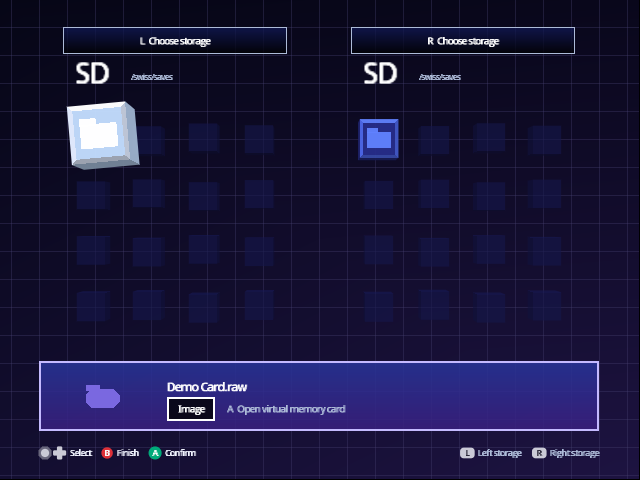
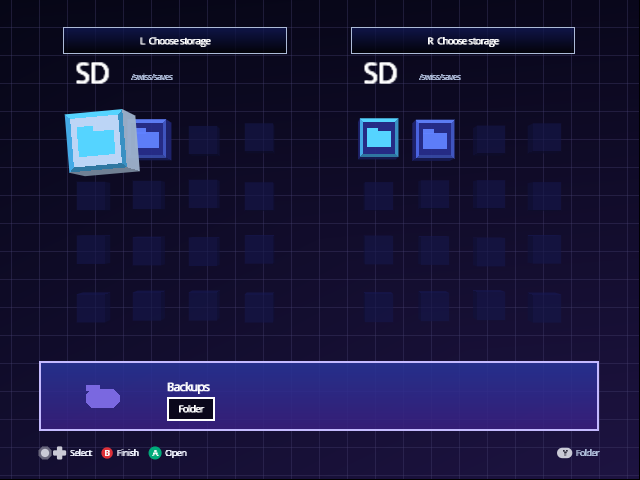
Show Memory Cards folder paths and cube colors in the guide

diff --git a/docs/guide/memory-cards.md b/docs/guide/memory-cards.md
@@ -65,7 +65,7 @@ folder. A on a folder opens it, and B, with the cursor on that stack, goes
 back up, as far as the folder it opened on.
 
 <p align="center">
-  <img alt="Both columns open on SD when no physical cards are inserted. L Choose storage and R Choose storage are visible above them; Demo Card.raw appears as a folder cube in the Save Folder." src="images/memory-cards-sd.png" width="640">
+  <img alt="Both columns open on SD. The Backups folder cube has its saved Azure rim and folder symbol in both columns; Y Folder is visible beside the navigation controls." src="images/memory-cards-sd.png" width="640">
 </p>
 
 ### Identify and color a folder
@@ -83,6 +83,10 @@ the reset. The color marks that small cube's rim and folder symbol in either
 column. It is remembered by the full path on that device, so folders with
 the same name elsewhere have independent colors. Up to 32 folders or images
 can have a saved color; resetting one frees its place.
+
+<p align="center">
+  <img alt="Y Folder on Backups opens its complete device-prefixed path, direct save count, Copper Garage and Need for Speed Underground 2 captions, color choice and Reset, Save and Cancel controls." src="images/memory-cards-folder.png" width="640">
+</p>
 
 Colors are saved with Indigo's settings on the Configuration Device. If that
 save fails, the page stays open with an explanation and the previous saved
